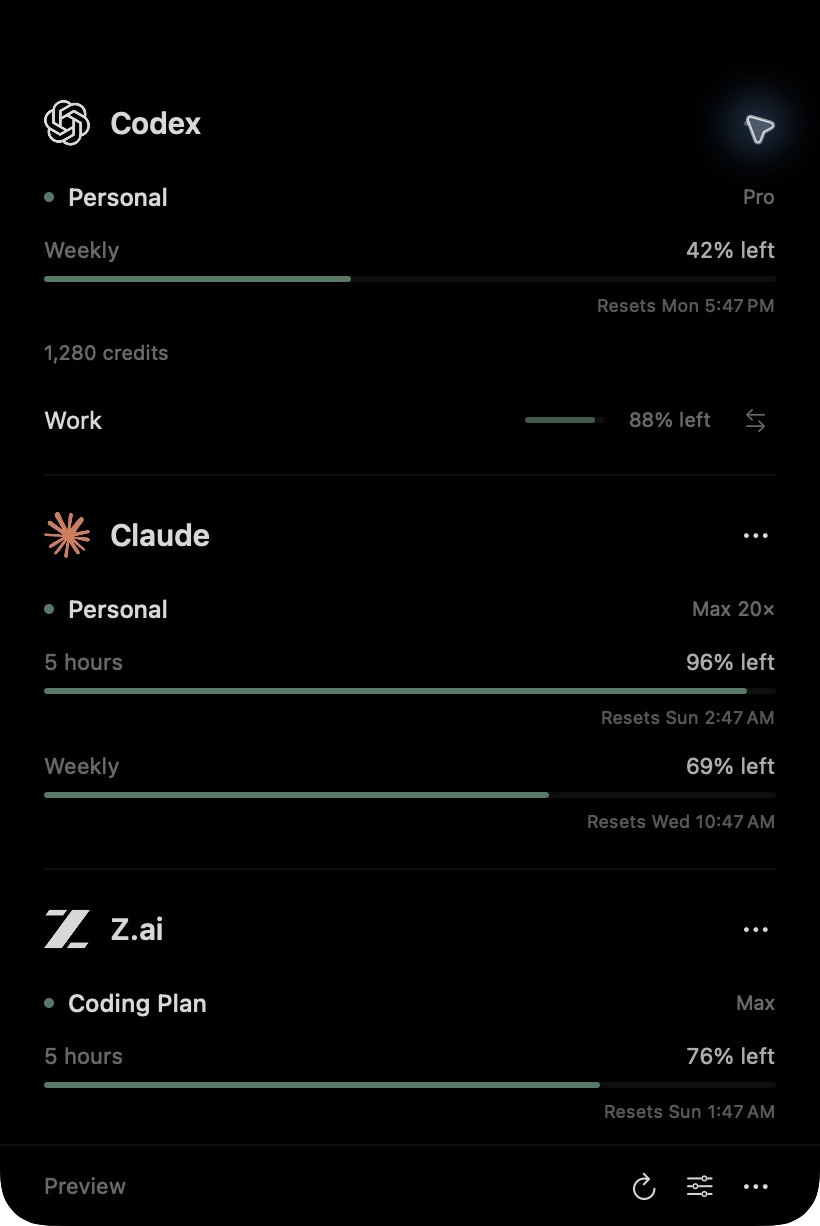
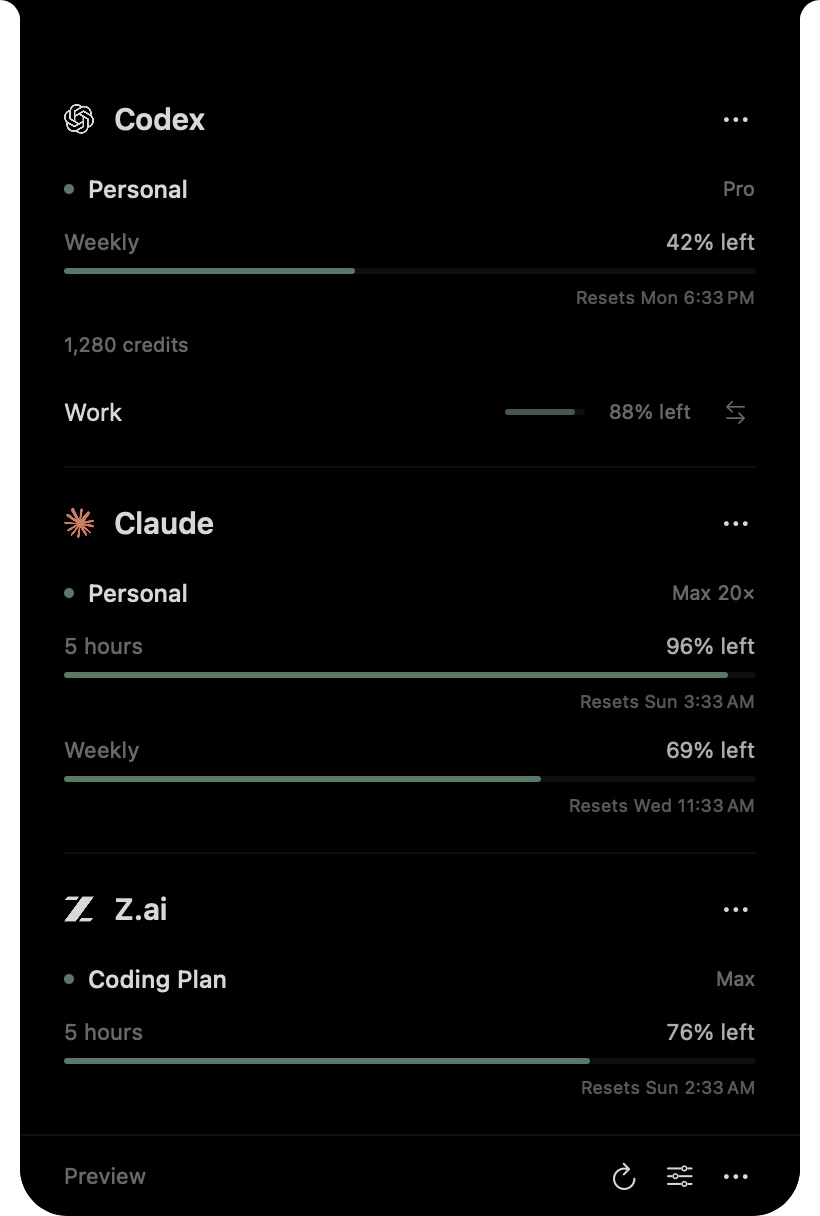
Refresh product screenshots for the refined spacing

diff --git a/docs/images/README.md b/docs/images/README.md
@@ -4,7 +4,7 @@ All public images use synthetic demo accounts.
 
 | File | View |
 | --- | --- |
-| `usage-dark.png`, `usage-light.png` | Usage panels with CleanShot X backgrounds |
+| `usage-dark.png`, `usage-light.png` | Usage panels with gradient backgrounds |
 | `coding-dark.png`, `coding-light.png` | Copilot, Cursor, and Kimi |
 | `notch.jpg` | Expanded notch panel |
 | `settings.png` | Placement and compact display settings |
@@ -20,6 +20,6 @@ mkdir -p docs/images/raw
 
 Add `--light` instead of `--dark`, or `--coding` for the other provider set.
 
-The framed panels use CleanShot X's gray/pink gradient, centered alignment, 90 px padding, 24 px shadow, 14 px corners, and a 3:4 canvas. Native captures do not simulate a hardware notch.
+The framed panels use native captures on a gray/pink gradient, matching the original CleanShot presentation. The current frames were rendered in HTML: 1140 × 1520 canvas, centered 764 × 1152 capture, 56 px corners, and a soft shadow. Native captures do not simulate a hardware notch.
 
 Check for clipping and private data before committing. Raw captures and CleanShot projects are ignored.
